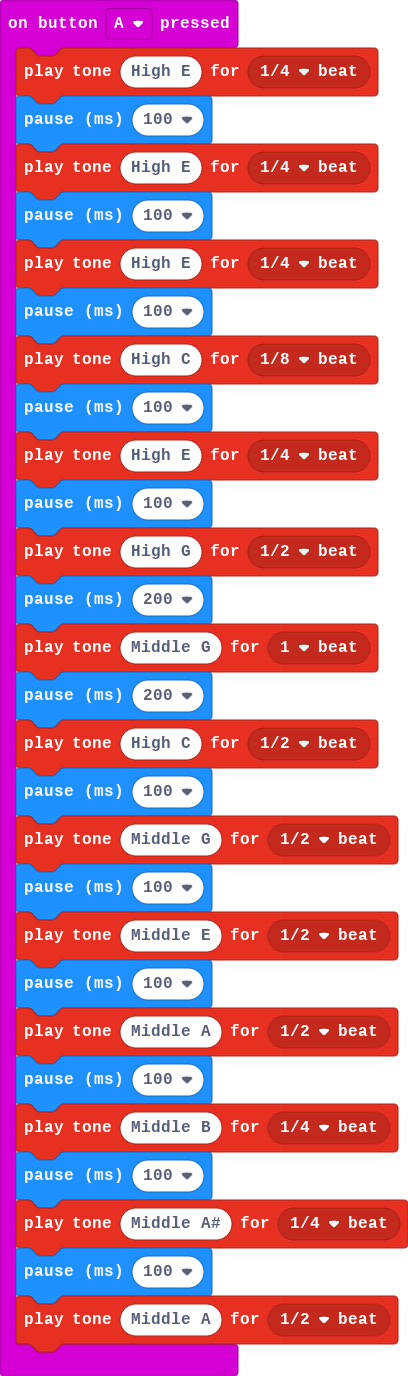
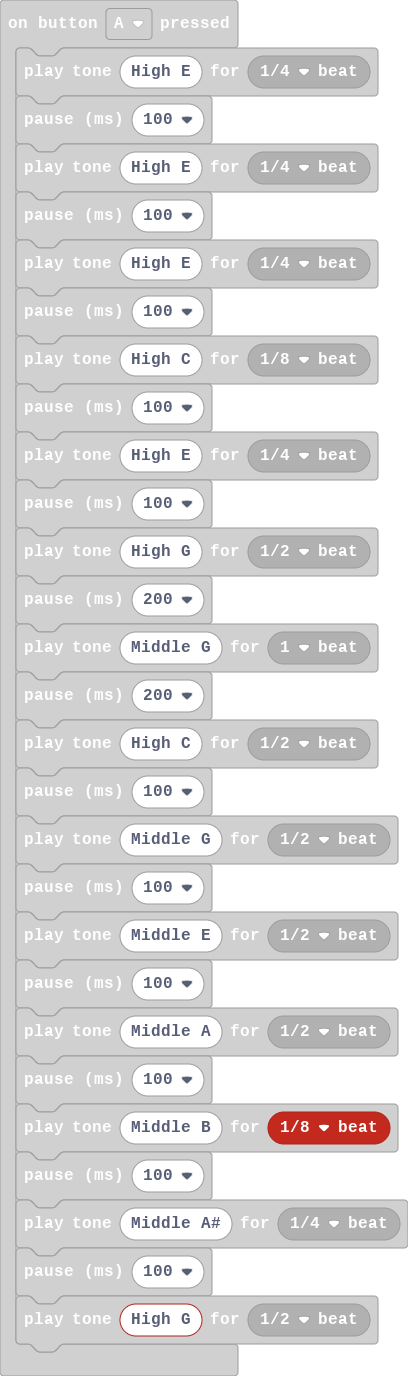
Practically same thing xD

diff --git a/main.ts b/main.ts
@@ -21,11 +21,11 @@ input.onButtonPressed(Button.A, function () {
     basic.pause(100)
     music.playTone(440, music.beat(BeatFraction.Half))
     basic.pause(100)
-    music.playTone(494, music.beat(BeatFraction.Quarter))
+    music.playTone(494, music.beat(BeatFraction.Eighth))
     basic.pause(100)
     music.playTone(466, music.beat(BeatFraction.Quarter))
     basic.pause(100)
-    music.playTone(440, music.beat(BeatFraction.Half))
+    music.playTone(784, music.beat(BeatFraction.Half))
 })
 basic.forever(function () {
 	
